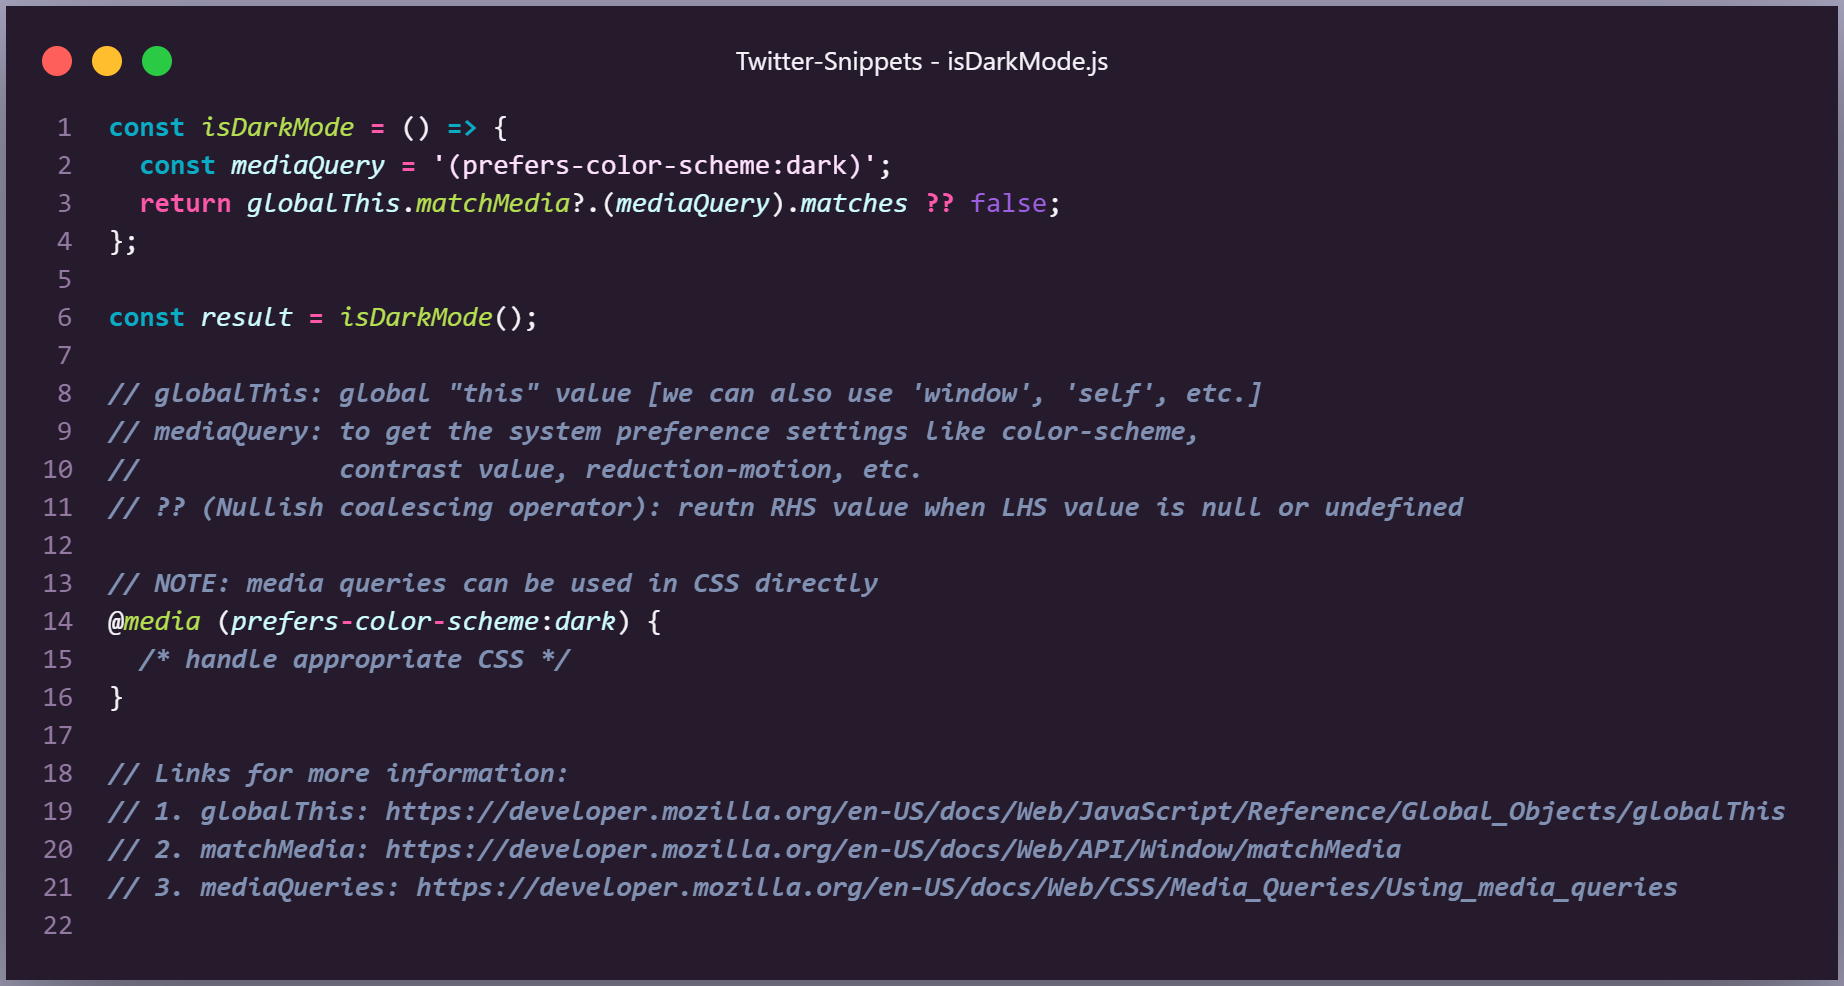
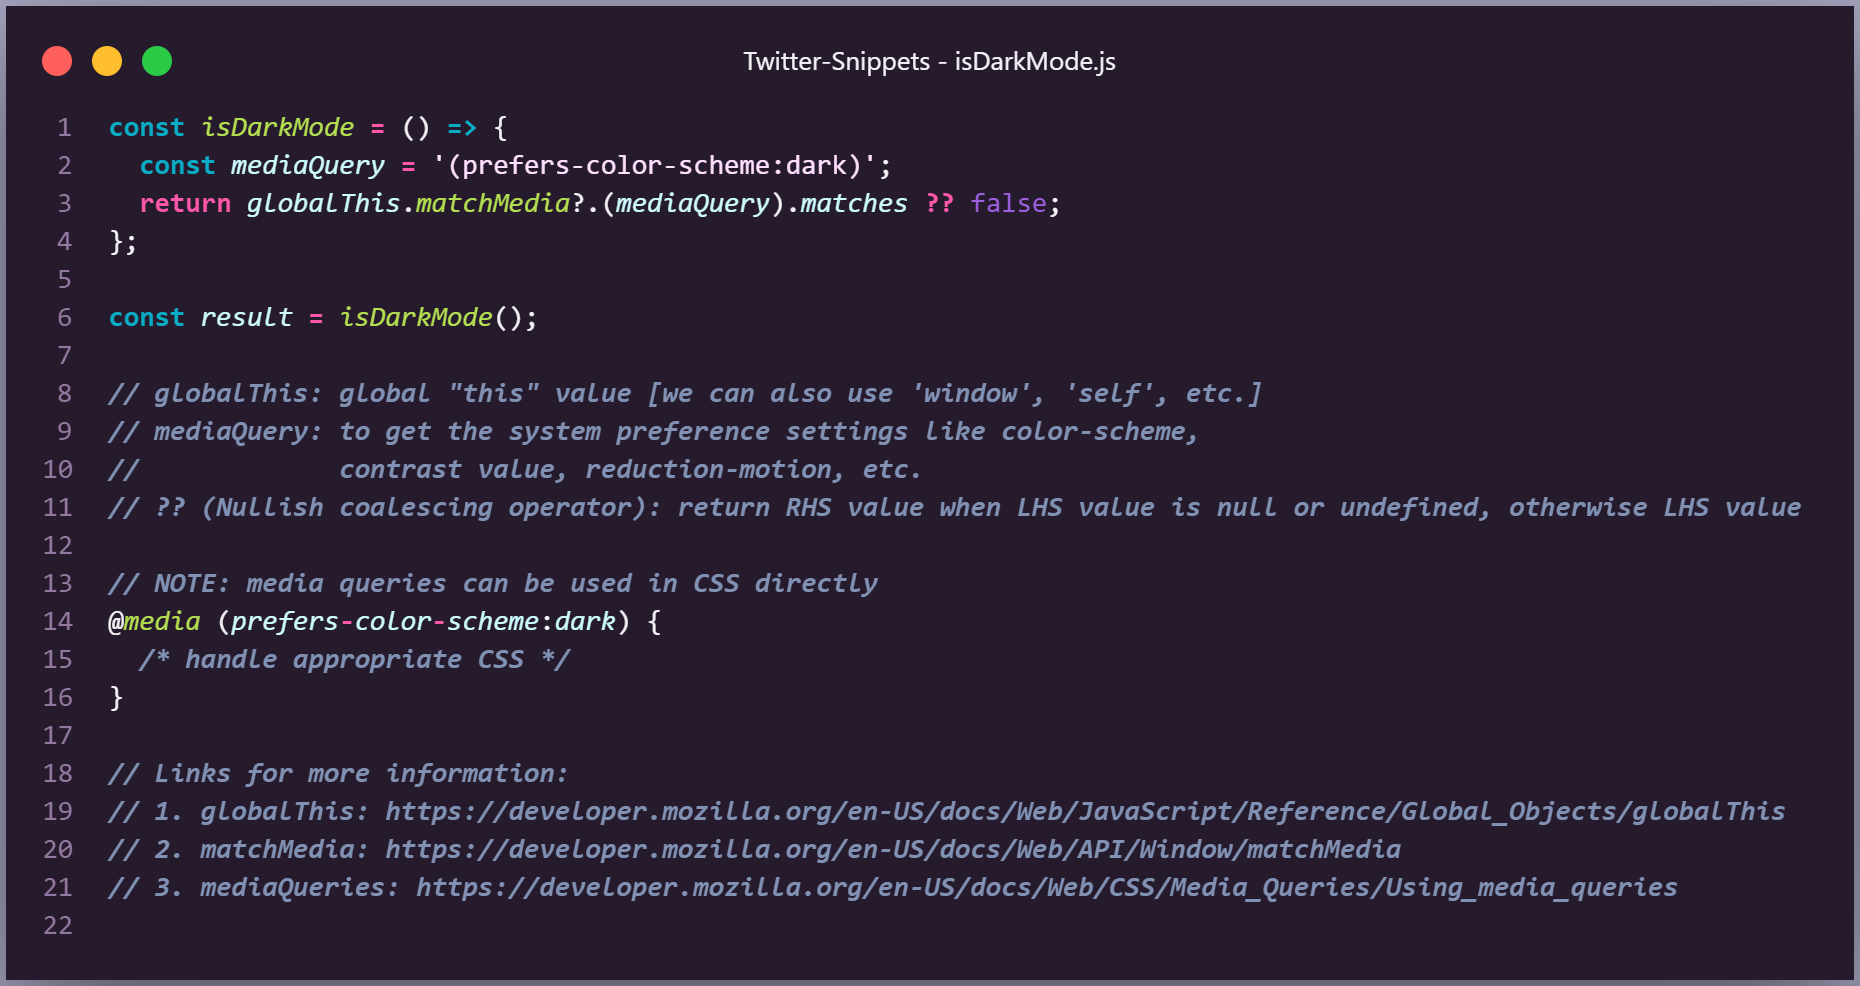
typo removed

diff --git a/Check For Dark Mode/isDarkMode.js b/Check For Dark Mode/isDarkMode.js
@@ -8,7 +8,7 @@ const result = isDarkMode();
 // globalThis: global "this" value [we can also use 'window', 'self', etc.]
 // mediaQuery: to get the system preference settings like color-scheme,
 //             contrast value, reduction-motion, etc.
-// ?? (Nullish coalescing operator): reutn RHS value when LHS value is null or undefined
+// ?? (Nullish coalescing operator): return RHS value when LHS value is null or undefined, otherwise LHS value
 
 // NOTE: media queries can be used in CSS directly
 @media (prefers-color-scheme:dark) {
